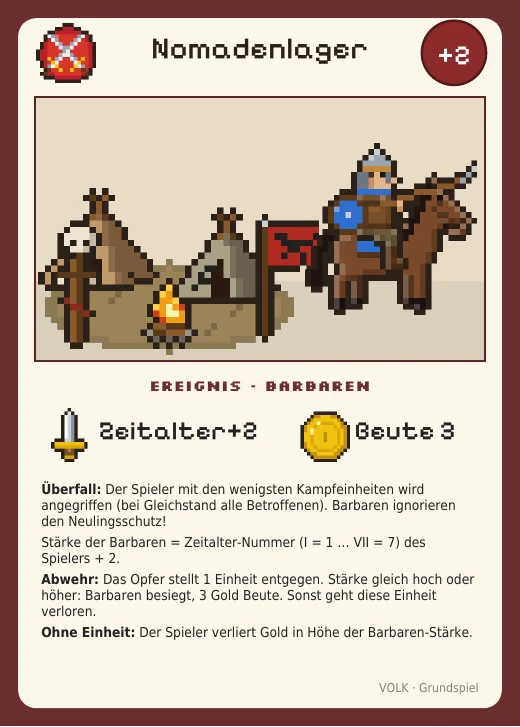
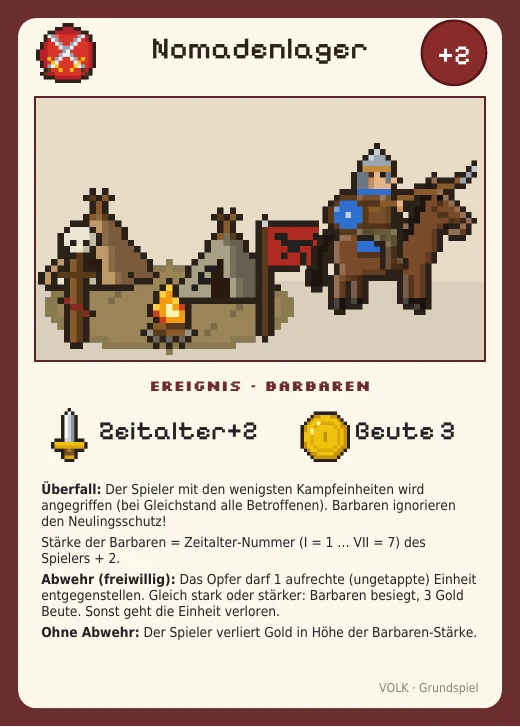
Großes Update: Entscheidungen bei Barbaren und Winter
- Barbaren: Du entscheidest selbst, ob und mit welcher aufrechten (ungetappten) Einheit du abwehrst. Ohne Abwehr trifft dich die Folge, zu schwache Einheit geht verloren
- Strenger Winter: Du wählst selbst, welche Handkarte du ablegst
- Getappte Einheiten können Barbaren nicht mehr abwehren und sterben nicht mehr automatisch
- Computer und Online-Server unterstützen die neuen Entscheidungen (inkl. Zeitüberschreitung online)
- Kartentexte und Regeln angepasst, Karten neu gerendert, neuer Test für die Entscheidungen

Claude-Session: https://claude.ai/code/session_01QqVFR5NqmeZk4v13hv5Qze

Changed region(s): [[0.0615, 0.7868, 0.9231, 0.8776]]

diff --git a/public/js/ui.js b/public/js/ui.js
@@ -20,8 +20,8 @@ export class Spieltisch {
   }
   get s() { return this.c.s; } get me() { return this.c.me; }
   p(i) { return this.s.sp[i]; }
-  meinZug() { return this.s.am === this.me && this.s.phase !== 'ende' && this.s.phase !== 'block'; }
-  erzwungen() { const s = this.s; return s.sieger !== null && !this.siegZu || (s.phase === 'block' && s.kampf.ziel === this.me) || this.ereignisOffen(); }
+  meinZug() { return this.s.am === this.me && this.s.phase !== 'ende' && this.s.phase !== 'block' && this.s.phase !== 'wahl'; }
+  erzwungen() { const s = this.s; return s.sieger !== null && !this.siegZu || (s.phase === 'block' && s.kampf.ziel === this.me) || (s.phase === 'wahl' && s.wahl.q[0] === this.me) || this.ereignisOffen(); }
   ereignisOffen() { const s = this.s; return !!(s.letztes && s.letztes.n > this.ereigGesehen && s.sieger === null); }
   blockiert() { return this.erzwungen() || !!this.modalFn; }
   toast(t) {
@@ -39,7 +39,7 @@ export class Spieltisch {
     if (this.letzterAm !== null && this.letzterAm !== s.am && s.am === this.me && s.sieger === null && this.tab !== 'ich') this.tab = 'ich';
     if (s.am !== this.me || s.phase !== 'aktion') this.endeWarn = false;
     this.letzterAm = s.am;
-    const aktiv = s.sp[s.phase === 'block' ? s.kampf.ziel : s.am];
+    const aktiv = s.sp[E.akteur(s)];
     const ticker = s.ev.slice(-3).map(e => esc(e.t)).join('  ›  ');
     const chips = s.sp.map((p, i) => {
       const v = D.voelker.find(x => x.id === p.volk);
@@ -69,6 +69,7 @@ export class Spieltisch {
     if (s.sieger !== null && !this.siegZu) html = this.siegHtml();
     else if (s.phase === 'block' && s.kampf.ziel === this.me) html = this.blockHtml();
     else if (this.ereignisOffen()) html = this.ereignisHtml();
+    else if (s.phase === 'wahl' && s.wahl.q[0] === this.me) html = this.wahlHtml();
     else if (this.modalFn) { html = this.modalFn(); if (html === null) this.modalFn = null; }
     if (html === null || html === undefined) { this.ov.classList.remove('an'); this.ov.innerHTML = ''; return; }
     this.ov.classList.add('an'); const old = this.ov.querySelector('.sheet'); const sc = old ? old.scrollTop : 0;
@@ -98,6 +99,7 @@ export class Spieltisch {
   aktionsHtml() {
     const s = this.s, p = this.p(this.me);
     if (s.sieger !== null) return `<div class="aktionen"><div class="info">Das Spiel ist vorbei.</div><button data-a="siegzeigen">Ergebnis</button></div>`;
+    if (s.phase === 'wahl') return `<div class="aktionen"><div class="info">${s.wahl.q[0] === this.me ? 'Triff deine Entscheidung.' : esc(this.p(s.wahl.q[0]).name) + ' entscheidet (' + esc(s.wahl.e.name) + ') …'}</div></div>`;
     if (s.phase === 'block') return `<div class="aktionen"><div class="info">${s.kampf.ziel === this.me ? 'Du wirst angegriffen!' : esc(this.p(s.kampf.ziel).name) + ' verteidigt sich …'}</div></div>`;
     if (s.am !== this.me) return `<div class="aktionen"><div class="info">${esc(this.p(s.am).name)} ist am Zug · <span data-fx="gold">${ic('ui:gold')}<b>${p.gold}</b></span></div></div>`;
     if (s.phase === 'ziehen') {
@@ -248,6 +250,22 @@ export class Spieltisch {
     const log = s.ev.filter(x => x.n >= s.letztes.n).map(x => `<div class="mini">${esc(x.t)}</div>`).join('');
     return this.fenster(`${ic('x:blitz')} Ereignis: ${esc(e.name)}`, `<div class="ereignis-wrap"><div class="gross">${kk({ id: s.letztes.id }, { eager: true })}</div><div style="flex:1;min-width:180px">${log}</div></div><div class="btns"><button class="gruen" data-a="ereigok">Weiter${ic('ui:pfeil_rechts')}</button></div>`, false);
   }
+  wahlHtml() {
+    const s = this.s, w = s.wahl, p = this.p(this.me), e = w.e;
+    if (w.art === 'winter') {
+      const z = E.handZaehlt(p);
+      return this.fenster(`${ic('ui:meldung')} ${esc(e.name)}`, `<p class="mini">Jeder Spieler legt 1 Handkarte ab. Tippe auf die Karte, die du am wenigsten brauchst.</p><div class="lex-gitter" style="--kw:84px;justify-content:center">${z.map(c => kk(c, { a: 'winterab', v: c.i })).join('')}</div>`, false);
+    }
+    const B = E.barbStaerke(p, e), folge = e.folge === 'stadt' ? `Deine Stadt verliert ${Math.max(1, B - E.schutz(p))} Leben.` : `Du verlierst ${Math.min(B, p.gold)} Gold.`;
+    const reihen = E.kampfEinheiten(p).map(u => {
+      const su = E.staerkeGegen(p, u, null, false), sieg = su >= B;
+      return `<div class="block-reihe"><div class="oben">${kk(u, { cls: u.t ? 'aus' : '' })}<div><b>${esc(def(u).name)}</b> ${ic('ui:staerke')}${su}
+        <div class="mini">${sieg ? `Besiegt die Barbaren, du bekommst ${e.beute} Gold.` : `Zu schwach: ${esc(def(u).name)} geht verloren.`}</div>
+        ${u.t ? '<div class="mini">Getappt: kann nicht abwehren.</div>' : `<button class="chipb ${sieg ? 'an' : ''}" data-a="abwehr" data-v="${u.i}" style="margin-top:6px">Abwehren</button>`}</div></div></div>`;
+    }).join('');
+    return this.fenster(`${ic('ui:krieg')} ${esc(e.name)}`, `<div class="grund">Die Barbaren haben Stärke <b>${B}</b> (Zeitalter ${p.alter + 1} + ${e.plus}). Wähle eine aufrechte Einheit zur Abwehr oder lass sie durch.</div>${reihen}
+      <button class="rot" data-a="abwehr" data-v="" style="width:100%;margin-top:8px;min-height:44px">Nicht abwehren · ${folge}</button>`, false);
+  }
   blockHtml() {
     const s = this.s, k = s.kampf, a = s.sp[k.von], o = this.p(this.me);
     const atk = k.atk.map(id => a.front.find(x => x.i === id)).filter(Boolean), used = new Set(Object.values(this.blk).filter(v => v != null));
@@ -271,7 +289,7 @@ export class Spieltisch {
   angezeigt() { return this.tab === 'ich' ? this.me : this.tab === 'tisch' || this.tab === 'log' ? -1 : +this.tab; }
   snap() {
     const s = this.s;
-    return { sig: s.sp.map(p => p.volk).join(), runde: s.runde, am: s.am, sieger: s.sieger, evn: s.ev.length, ereig: s.letztes ? s.letztes.n : 0,
+    return { sig: s.sp.map(p => p.volk).join(), runde: s.runde, am: s.am, phase: s.phase, sieger: s.sieger, evn: s.ev.length, ereig: s.letztes ? s.letztes.n : 0,
       p: s.sp.map((p, i) => ({ hp: p.hp, k: E.kultur(p), gold: p.gold, alter: p.alter, hand: i === this.me ? p.hand.map(c => c.i) : [], tisch: [...p.geb, ...p.wunder, ...p.staaten, ...p.land, ...p.front, ...p.kaserne].map(c => c.i) })) };
   }
   fxAnwenden() {
@@ -304,7 +322,7 @@ export class Spieltisch {
       letzte?.scrollIntoView({ inline: 'center', block: 'nearest' }); ton('karte');
     }
     if (jetzt.ereig > vor.ereig) ton('ereignis');
-    if (jetzt.am === this.me && vor.am !== this.me && jetzt.sieger === null) { banner('DEIN ZUG', 'zug'); ton('zug'); vibriere(60); }
+    if (jetzt.am === this.me && s.phase === 'ziehen' && (vor.am !== this.me || vor.phase === 'wahl') && jetzt.sieger === null) { banner('DEIN ZUG', 'zug'); ton('zug'); vibriere(60); }
     if (vor.sieger === null && jetzt.sieger !== null) { if (jetzt.sieger === this.me) { konfetti(); ton('sieg'); vibriere([80, 60, 80]); } else ton('niederlage'); }
   }
 
@@ -316,7 +334,7 @@ export class Spieltisch {
     if (k === 'Escape') { if (ovAn && !this.erzwungen()) { this.modalFn = null; this.render(); e.preventDefault(); } return; }
     if (k === 'm' || k === 'M') { setzeOpt('ton'); this.toast(opt.ton ? 'Ton an' : 'Ton aus'); this.render(); return; }
     if (k === 'Enter' || k === ' ') {
-      if (tag === 'button' || s.phase === 'block') return;
+      if (tag === 'button' || s.phase === 'block' || s.phase === 'wahl') return;
       const b = ovAn ? this.ov.querySelector('.sheet .btns .gruen:not(:disabled)') : null;
       if (b) { b.click(); e.preventDefault(); } else if (!ovAn && this.meinZug() && s.phase === 'aktion') { this.root.querySelector('[data-a="ende"]')?.click(); e.preventDefault(); }
       return;
@@ -379,6 +397,8 @@ export class Spieltisch {
       case 'schiessen': sheet(this.schiessenSheet()); break;
       case 'schuss': { const m = t.dataset; const r = await this.senden(m.stadt ? { t: 'schuss', c: +v, stadt: true, p: +m.p } : { t: 'schuss', c: +v, p: +m.p, z: +m.z }); if (r.ok) { this.sel.delete(+v); const rest = [...this.sel].filter(i => p.front.find(u => u.i === i && E.kannSchiessen(u))); if (!rest.length) this.modalFn = null; this.render(); } break; }
       case 'blk': { const ai = +v; if (t.dataset.b === '') this.blk[ai] = null; else this.blk[ai] = +t.dataset.b; this.render(); break; }
+      case 'abwehr': await this.senden({ t: 'abwehr', u: v === '' ? null : +v }); break;
+      case 'winterab': await this.senden({ t: 'winterab', c: +v }); break;
       case 'blkauto': this.blk = KI.blockWahl(s, this.me, 'stark').z; this.render(); break;
       case 'blockgo': { const r = await this.senden({ t: 'blocke', z: this.blk }); if (r.ok) this.blk = {}; break; }
     }

diff --git a/public/js/engine.js b/public/js/engine.js
@@ -189,6 +189,10 @@ export function aktion(s, pi, a) {
     if (pi !== s.kampf.ziel) return f('Du bist nicht der Verteidiger.');
     return blocke(s, a);
   }
+  if (s.phase === 'wahl') {
+    if (pi !== s.wahl.q[0]) return f('Du bist gerade nicht dran, etwas zu entscheiden.');
+    return wahlAktion(s, pi, a);
+  }
   if (pi !== s.am) return f('Du bist nicht am Zug.');
   if (s.phase === 'ziehen') {
     if (a.t !== 'ziehe') return f('Du musst zuerst Karten ziehen.');
@@ -287,9 +291,12 @@ function naechster(s) {
   const n = s.sp.length; let i = s.am, wrap = false;
   do { i = (i + 1) % n; if (i <= s.am) wrap = true; } while (s.sp[i].tot);
   s.am = i;
-  if (wrap) { ereignis(s); if (s.sieger !== null) return; s.runde++; if (s.sp[s.am].tot) { do { s.am = (s.am + 1) % n; } while (s.sp[s.am].tot); } }
+  if (wrap) { ereignis(s); if (s.sieger !== null) return; if (s.wahl) { s.phase = 'wahl'; return; } rundeWeiter(s); }
   zugStart(s);
 }
+function rundeWeiter(s) { const n = s.sp.length; s.runde++; if (s.sp[s.am].tot) { do { s.am = (s.am + 1) % n; } while (s.sp[s.am].tot); } }
+// Wer gerade etwas entscheiden muss: Verteidiger beim Angriff, Betroffene bei Ereignissen, sonst der Spieler am Zug
+export const akteur = (s) => (s.phase === 'block' ? s.kampf.ziel : s.phase === 'wahl' ? s.wahl.q[0] : s.am);
 
 // ---------- Kampf ----------
 export function staerkeGegen(p, u, g, angriff) {
@@ -381,6 +388,45 @@ export function kartenWert(p, c) {
   if (d.zeitalter > p.alter + 1) return 0.5; return 2 + (d.typ === 'einheit' ? 3 : 2);
 }
 
+// ---------- Entscheidungen bei Ereignissen ----------
+export const verteidiger = (p) => kampfEinheiten(p).filter(u => !u.t);   // nur aufrechte (ungetappte) Einheiten können abwehren
+export const barbStaerke = (p, e) => p.alter + 1 + e.plus;
+function winterAb(s, pi, c) { const p = s.sp[pi]; p.hand.splice(p.hand.indexOf(c), 1); legeAb(s, p, c); log(s, 'winter', p.name + ' legt im Winter ' + def(c).name + ' ab.', pi); }
+function barbWirkung(s, pi, e, u) {
+  const p = s.sp[pi], B = barbStaerke(p, e);
+  if (u) {
+    if (staerkeGegen(p, u, null, false) >= B) { p.gold += e.beute; log(s, 'barb', p.name + ' wehrt die Barbaren mit ' + def(u).name + ' ab (+' + e.beute + ' Gold).', pi); }
+    else { entferne(s, p, u); legeAb(s, p, u); log(s, 'barb', 'Die Barbaren besiegen ' + def(u).name + ' von ' + p.name + '.', pi); }
+  } else if (e.folge === 'stadt') schadenStadt(s, p, B, 'Barbaren');
+  else { p.gold = Math.max(0, p.gold - B); log(s, 'barb', p.name + ' verliert ' + B + ' Gold an die Barbaren.', pi); }
+}
+function wahlAktion(s, pi, a) {
+  const w = s.wahl, p = s.sp[pi], f = (t) => ({ ok: false, fehler: t });
+  if (w.art === 'barb') {
+    if (a.t !== 'abwehr') return f('Entscheide, ob und womit du die Barbaren abwehrst.');
+    let u = null; if (a.u) { u = verteidiger(p).find(x => x.i === a.u); if (!u) return f('Diese Einheit kann nicht abwehren (getappt oder keine Kampfeinheit).'); }
+    barbWirkung(s, pi, w.e, u);
+  } else {
+    if (a.t !== 'winterab') return f('Wähle die Karte, die du ablegst.');
+    const c = handZaehlt(p).find(x => x.i === a.c); if (!c) return f('Diese Karte kannst du nicht ablegen.');
+    winterAb(s, pi, c);
+  }
+  w.q.shift(); while (w.q.length && s.sp[w.q[0]].tot) w.q.shift();
+  if (pruefeSieg(s)) { s.wahl = null; return { ok: true }; }
+  if (!w.q.length) { s.wahl = null; rundeWeiter(s); zugStart(s); }
+  return { ok: true };
+}
+// Vernünftige Standardentscheidung (Computer, Zeitüberschreitung online, Fehler-Rückfall)
+export function wahlStandard(s, pi) {
+  const w = s.wahl, p = s.sp[pi];
+  if (w.art === 'winter') { const z = handZaehlt(p); return { t: 'winterab', c: z.reduce((m, x) => kartenWert(p, x) < kartenWert(p, m) ? x : m).i }; }
+  const B = barbStaerke(p, w.e), v = verteidiger(p).sort((a, b) => def(a).staerke - def(b).staerke);
+  const gut = v.find(u => staerkeGegen(p, u, null, false) >= B); if (gut) return { t: 'abwehr', u: gut.i };
+  const verlust = v[0] ? (def(v[0]).kosten || 1) : 99;
+  const folge = w.e.folge === 'stadt' ? Math.min(B, 6) * 1.5 + (p.hp <= B + 2 ? 20 : 0) : Math.min(B, p.gold);
+  return verlust < folge ? { t: 'abwehr', u: v[0].i } : { t: 'abwehr', u: null };
+}
+
 // ---------- Ereignisse ----------
 function ereignis(s) {
   if (!s.ereig.length) s.ereig = mische(s, s.ereigAblage.splice(0));
@@ -399,18 +445,18 @@ function ereignis(s) {
     else if (e.id === 'fest') for (const p of l) { if (p.religion) p.gold += 2; else ziehe(s, p, maxStapel(p)); }
     else if (e.id === 'heilung') for (const p of l) p.hp = Math.min(R.stadt_hp, p.hp + 3);
   } else if (e.art === 'barbaren') {
-    const m = Math.min(...l.map(p => kampfEinheiten(p).length));
+    const m = Math.min(...l.map(p => kampfEinheiten(p).length)), q = [];
     for (const p of l.filter(p => kampfEinheiten(p).length === m)) {
-      const B = p.alter + 1 + e.plus, bl = kampfEinheiten(p).sort((a, b) => def(a).staerke - def(b).staerke);
-      if (bl.length) {
-        const gut = bl.find(u => def(u).staerke >= B);
-        if (gut) { p.gold += e.beute; log(s, 'barb', p.name + ' wehrt die Barbaren ab (+' + e.beute + ' Gold).', nm(p)); }
-        else { const u = bl[0]; entferne(s, p, u); legeAb(s, p, u); log(s, 'barb', 'Die Barbaren besiegen ' + def(u).name + ' von ' + p.name + '.', nm(p)); }
-      } else { if (e.folge === 'stadt') schadenStadt(s, p, B, 'Barbaren'); else { p.gold = Math.max(0, p.gold - B); log(s, 'barb', p.name + ' verliert ' + B + ' Gold an die Barbaren.', nm(p)); } }
+      if (verteidiger(p).length) q.push(nm(p)); else barbWirkung(s, nm(p), e, null);   // niemand kann abwehren: Folge sofort
     }
+    if (q.length && s.sieger === null) s.wahl = { art: 'barb', e: { id: e.id, name: e.name, plus: e.plus, folge: e.folge, beute: e.beute }, q };
   } else {
     if (e.id === 'regenzeit') for (const p of l) p.gold += 2;
-    else if (e.id === 'winter') for (const p of l) { const z = handZaehlt(p); if (z.length) { const c = z.reduce((m, x) => kartenWert(p, x) < kartenWert(p, m) ? x : m); p.hand.splice(p.hand.indexOf(c), 1); legeAb(s, p, c); log(s, 'winter', p.name + ' legt im Winter eine Karte ab.', nm(p)); } }
+    else if (e.id === 'winter') {
+      const q = [];
+      for (const p of l) { const z = handZaehlt(p); if (z.length === 1) winterAb(s, nm(p), z[0]); else if (z.length > 1) q.push(nm(p)); }
+      if (q.length) s.wahl = { art: 'winter', e: { id: e.id, name: e.name }, q };
+    }
     else if (e.id === 'seuche') for (const p of l) { if (heilung(p) < 2) p.hp -= 2; }
     else if (e.id === 'sonnenwende') { const m = Math.max(...l.map(kultur)); const t = l.filter(p => kultur(p) === m); if (t.length === 1) t[0].gold += 2; }
     else if (e.id === 'diebe') { const m = Math.max(...l.map(p => p.gold)); for (const p of l.filter(p => p.gold === m)) p.gold = Math.max(0, p.gold - 3); }

diff --git a/public/js/regeln.js b/public/js/regeln.js
@@ -22,7 +22,7 @@ function grundspiel(D) {
   <h2>Rohstoffe</h2><p>Viele Karten „brauchen“ Symbole (Holz, Stein, Marmor, Eisen, Pferde …). Du besitzt ein Symbol, wenn eines deiner Länder, Gebäude oder Verbündeten es liefert. Symbole werden <b>nicht verbraucht</b>. Fehlt genau ein Symbol, kaufst du es für <b>${R.zukauf_preis} Gold</b> automatisch dazu. Küste und Flugfeld kann man nicht kaufen.</p>
   <h2>Kampf</h2>${li(`<b>Neulingsschutz:</b> Bis ${R.schutz_runden} Ereignisse aufgedeckt wurden, darf niemand angreifen oder schießen.`, '<b>Angriff:</b> Tippe auf deine aufrechten Einheiten an der Front, dann auf „gegen …“. Die Angreifer erschöpfen sich.', '<b>Blocken:</b> Der Verteidiger darf jeden Angreifer mit höchstens <b>einer</b> aufrechten Einheit blocken (auch aus der Kaserne). Die höhere <b>Stärke</b> gewinnt, bei Gleichstand fallen beide. Zivile Einheiten (Siedler, Händler, Handelsschiffe) und Luft-Einheiten (nur von Luft/Luftabwehr) können nicht blocken bzw. werden nicht geblockt.', `<b>Stadttreffer:</b> Ein nicht geblockter Angreifer verursacht seine Stärke als Schaden, minus dem <b>Schutz</b> deiner Gebäude (mindestens 1). Bei 0 ${ic('ui:hp')} scheidest du aus.`, '<b>Schuss:</b> Einheiten mit Fernkampf zerstören ein Ziel, wenn ihre Fern-Zahl mindestens dessen Stärke erreicht. Belagerer dürfen auch die Stadt beschießen. Kein Gegenschlag.')}
   <h2>Schlüsselwörter</h2><div class="reg-tab">${Object.entries(SCHL_TXT).filter(([k]) => k !== 'mission').map(([k, v]) => `<div><b>${esc(SCHL[k])}</b></div><div>${esc(v)}</div>`).join('')}</div>
-  <h2>Ereignisse</h2><p>Nach jeder Runde wird ein Ereignis aufgedeckt. <b>Wetter</b> trifft alle (z. B. Ernte, Seuche, Diebe). <b>Barbaren</b> überfallen den Spieler mit dem schwächsten Heer: Ihre Stärke ist <i>dein Zeitalter + 1 + Bonus</i>. Hast du eine Einheit, die mindestens so stark ist, wehrt sie den Überfall ab und du bekommst Beute – sonst fällt eine Einheit, oder (ohne Einheit) trifft es Stadt oder Gold.</p>
+  <h2>Ereignisse</h2><p>Nach jeder Runde wird ein Ereignis aufgedeckt. <b>Wetter</b> trifft alle (z. B. Ernte, Seuche, Diebe; im Winter wählst du selbst, welche Handkarte du ablegst). <b>Barbaren</b> überfallen den Spieler mit dem schwächsten Heer: Ihre Stärke ist <i>dein Zeitalter + 1 + Bonus</i>. Du entscheidest selbst, ob und mit welcher <b>aufrechten</b> (nicht getappten) Einheit du abwehrst: Ist sie mindestens so stark, wehrt sie den Überfall ab und du bekommst Beute. Ist sie zu schwach, geht sie verloren, dafür entfällt die Folge. Wehrst du nicht ab, trifft es deine Stadt oder dein Gold.</p>
   <div class="reg-tab">${D.ereignisse.map(e => `<div><b>${esc(e.name)}</b></div><div>${esc(e.beschreibung || '')}${e.text ? ' ' + esc(e.text.join(' ')) : ''}</div>`).join('')}</div>
   <h2>Siegbedingungen</h2>${li(`<b>Kultur:</b> ${R.kultur_sieg} Kultur (aus Gebäuden, Wundern, Verbündeten) – sofort bei Erreichen.`, `<b>Eroberung:</b> Alle anderen Städte sind bei 0 ${ic('ui:hp')}.`)}`;
 }
@@ -47,7 +47,7 @@ function voelkerSeite(D) {
 }
 function bedienung() {
   return `<h2>So bedienst du das Spiel</h2>${li('<b>Zug beginnen:</b> Tippe auf einen Kartenstapel unten, um zu ziehen. Dein Einkommen bekommst du automatisch.', '<b>Karte spielen:</b> Tippe auf eine Handkarte. Grün umrandete Karten kannst du gerade spielen; sonst steht im Fenster, was fehlt.', '<b>Wunder & Tribut:</b> Reiter „Tisch“.', '<b>Angreifen:</b> Reiter „Mein Reich“ → aufrechte Einheiten antippen → „Angriff“. <b>Schießen:</b> Fernkämpfer antippen → „Schießen“.', '<b>Verteidigen:</b> Wenn dich jemand angreift, öffnet sich ein Fenster. Wähle je Angreifer einen Blocker – oder nimm den Vorschlag.', '<b>Gegner ansehen:</b> Oben auf den Namen tippen. Du siehst ihre Gebäude, Land und Heer; ihre Handkarten sind verdeckt.', '<b>Zug beenden:</b> Grüner Knopf. Hast du zu viele Karten, legst du vorher ab.')}
-  <h2>Unterschiede zum Papierspiel</h2>${li('Der Rechner führt Aufwecken, Einkommen, Ereignisse, Barbaren und den Neulingsschutz selbst aus.', 'Im Winter legt der Rechner automatisch deine schwächste Handkarte ab.', 'Die Computer-Gegner gibt es in drei Stufen: <b>Leicht</b> (macht Fehler), <b>Mittel</b> und <b>Stark</b>.')}`;
+  <h2>Unterschiede zum Papierspiel</h2>${li('Der Rechner führt Aufwecken, Einkommen, Ereignisse, Barbaren und den Neulingsschutz selbst aus.', 'Die Computer-Gegner gibt es in drei Stufen: <b>Leicht</b> (macht Fehler), <b>Mittel</b> und <b>Stark</b>.')}`;
 }
 function lexikon(D) {
   const alle = [].concat(D.karten.map(k => ({ ...k, kat: k.typ })), D.wunder.map(k => ({ ...k, kat: 'wunder' })), D.staaten.map(k => ({ ...k, kat: 'staat' })), D.volkskarten.map(k => ({ ...k, kat: 'volk' })), D.relkarten.map(k => ({ ...k, kat: 'glaube' })));

diff --git a/src/raum.js b/src/raum.js
@@ -50,7 +50,7 @@ export class Raum extends DurableObject {
       case 'start': { if (!host || d.phase !== 'lobby') return; if (d.sitze.length < 2) return this.senden(ws, { t: 'fehler', text: 'Mindestens 2 Spieler nötig (Computer zählen mit).' }); this.starten(); break; }
       case 'revanche': { if (!host || d.phase !== 'ende') return; d.phase = 'lobby'; d.s = null; d.sitze = d.sitze.filter(x => !x.ki || true); break; }
       case 'a': {
-        if (d.phase !== 'spiel' || idx < 0) return; const s = d.s; const actor = s.phase === 'block' ? s.kampf.ziel : s.am;
+        if (d.phase !== 'spiel' || idx < 0) return; const s = d.s; const actor = E.akteur(s);
         const r = E.aktion(s, idx, m.a || {}); this.senden(ws, { t: 'ergebnis', id: m.id, ok: r.ok, fehler: r.fehler, loese: r.loese });
         if (!r.ok) return; this.nachAktion(); return;
       }
@@ -100,15 +100,15 @@ export class Raum extends DurableObject {
       if (d.schnell && d.sitze.length >= 2) { this.alleSenden(); this.takt(); } return;
     }
     if (d.phase !== 'spiel') return; const s = d.s; if (s.sieger !== null) { d.phase = 'ende'; await this.speichern(); this.alleSenden(); return; }
-    const actor = s.phase === 'block' ? s.kampf.ziel : s.am, st = d.sitze[actor];
+    const actor = E.akteur(s), st = d.sitze[actor];
     const mensch = !st.ki; const abwesend = mensch && (!this.verbunden(st.token) && jetzt - (st.weg || jetzt) > ABWESEND_MS);
     const key = actor + ':' + s.seq; if (!this.warteSeit || this.warteSeit.key !== key) this.warteSeit = { key, t: jetzt };
-    const blockZeit = mensch && s.phase === 'block' && jetzt - this.warteSeit.t > BLOCK_MS;
+    const blockZeit = mensch && (s.phase === 'block' || s.phase === 'wahl') && jetzt - this.warteSeit.t > BLOCK_MS;
     if (st.ki || abwesend || blockZeit) {
       const stufe = st.ki || 'mittel'; const a = KI.waehle(s, actor, stufe); let r = E.aktion(s, actor, a);
-      if (!r.ok) { console.warn('KI-Fehler', JSON.stringify(a), r.fehler); r = E.aktion(s, actor, s.phase === 'block' ? { t: 'blocke', z: {} } : s.phase === 'ziehen' ? { t: 'ziehe', stapel: 1 } : { t: 'ende', abwerfen: E.handZaehlt(s.sp[actor]).slice(0, Math.max(0, E.handZaehlt(s.sp[actor]).length - E.handlimit(s.sp[actor]))).map(c => c.i) }); if (!r.ok) E.aktion(s, actor, { t: 'ende' }); }
+      if (!r.ok) { console.warn('KI-Fehler', JSON.stringify(a), r.fehler); r = E.aktion(s, actor, s.phase === 'block' ? { t: 'blocke', z: {} } : s.phase === 'wahl' ? E.wahlStandard(s, actor) : s.phase === 'ziehen' ? { t: 'ziehe', stapel: 1 } : { t: 'ende', abwerfen: E.handZaehlt(s.sp[actor]).slice(0, Math.max(0, E.handZaehlt(s.sp[actor]).length - E.handlimit(s.sp[actor]))).map(c => c.i) }); if (!r.ok) E.aktion(s, actor, { t: 'ende' }); }
       await this.speichern(); this.alleSenden();
-      this.timer = setTimeout(() => { this.timer = null; this.tick().catch(e => console.error(e)); }, a.t === 'ziehe' ? 350 : a.t === 'angriff' || a.t === 'schuss' || a.t === 'blocke' ? 1300 : a.t === 'ende' ? 900 : 650);
+      this.timer = setTimeout(() => { this.timer = null; this.tick().catch(e => console.error(e)); }, a.t === 'ziehe' ? 350 : a.t === 'angriff' || a.t === 'schuss' || a.t === 'blocke' || a.t === 'abwehr' ? 1300 : a.t === 'ende' ? 900 : 650);
     } else this.timer = setTimeout(() => { this.timer = null; this.tick().catch(e => console.error(e)); }, 2000);
   }
 

diff --git a/public/js/app.js b/public/js/app.js
@@ -105,13 +105,13 @@ class LokalCtrl {
   weiter(ms = 420) { clearTimeout(this.t); this.t = setTimeout(() => this.tick(), Math.round(ms * tempoFaktor())); }
   tick() {
     const s = this.s; if (this.gestoppt || s.sieger !== null) { if (s.sieger !== null) { this.speichern(); this.view.render(); } return; }
-    const actor = s.phase === 'block' ? s.kampf.ziel : s.am; if (actor === this.me) return;
+    const actor = E.akteur(s); if (actor === this.me) return;
     if (this.view.erzwungen()) { this.weiter(300); return; }
     const stufe = s.sp[actor].ki || 'mittel';
     let a = KI.waehle(s, actor, stufe), r = E.aktion(s, actor, a);
-    if (!r.ok) { console.warn('KI-Fehler', a, r.fehler); r = E.aktion(s, actor, s.phase === 'block' ? { t: 'blocke', z: {} } : s.phase === 'ziehen' ? { t: 'ziehe', stapel: 1 } : { t: 'ende', abwerfen: E.handZaehlt(s.sp[actor]).slice(0, Math.max(0, E.handZaehlt(s.sp[actor]).length - E.handlimit(s.sp[actor]))).map(c => c.i) }); if (!r.ok) { E.aktion(s, actor, { t: 'ende' }); } }
+    if (!r.ok) { console.warn('KI-Fehler', a, r.fehler); r = E.aktion(s, actor, s.phase === 'block' ? { t: 'blocke', z: {} } : s.phase === 'wahl' ? E.wahlStandard(s, actor) : s.phase === 'ziehen' ? { t: 'ziehe', stapel: 1 } : { t: 'ende', abwerfen: E.handZaehlt(s.sp[actor]).slice(0, Math.max(0, E.handZaehlt(s.sp[actor]).length - E.handlimit(s.sp[actor]))).map(c => c.i) }); if (!r.ok) { E.aktion(s, actor, { t: 'ende' }); } }
     this.speichern(); this.view.render();
-    this.weiter(a.t === 'ziehe' ? 260 : a.t === 'angriff' || a.t === 'schuss' || a.t === 'blocke' ? 1100 : a.t === 'ende' ? 700 : 520);
+    this.weiter(a.t === 'ziehe' ? 260 : a.t === 'angriff' || a.t === 'schuss' || a.t === 'blocke' || a.t === 'abwehr' ? 1100 : a.t === 'ende' ? 700 : 520);
   }
   menue() { menue(); }
   regeln() { regelnSeite(app, D, () => { tisch.render(); }); }

diff --git a/public/js/ki_stark.js b/public/js/ki_stark.js
@@ -82,6 +82,7 @@ function kandidaten(s, pi) {
 function ausfuehren(s, pi, a, verteidiger) {
   const s2 = klon(s), r = E.aktion(s2, pi, a); if (!r.ok) return null;
   if (s2.phase === 'block') { const z = verteidiger(s2, s2.kampf.ziel); E.aktion(s2, s2.kampf.ziel, { t: 'blocke', z }); }
+  for (let n = 0; s2.phase === 'wahl' && n < 12; n++) { const w = E.akteur(s2); E.aktion(s2, w, E.wahlStandard(s2, w)); }
   return s2;
 }
 

diff --git a/public/js/ki.js b/public/js/ki.js
@@ -63,6 +63,7 @@ export function blockWahl(s, pi, stufe = 'mittel') {
 }
 
 export function waehle(s, pi, stufe = 'mittel') {
+  if (s.phase === 'wahl') return E.wahlStandard(s, pi);   // Barbaren abwehren / Winter ablegen
   if (stufe === 'stark') return waehleStarkWrap(s, pi);
   return waehleMittel(s, pi, stufe);
 }
